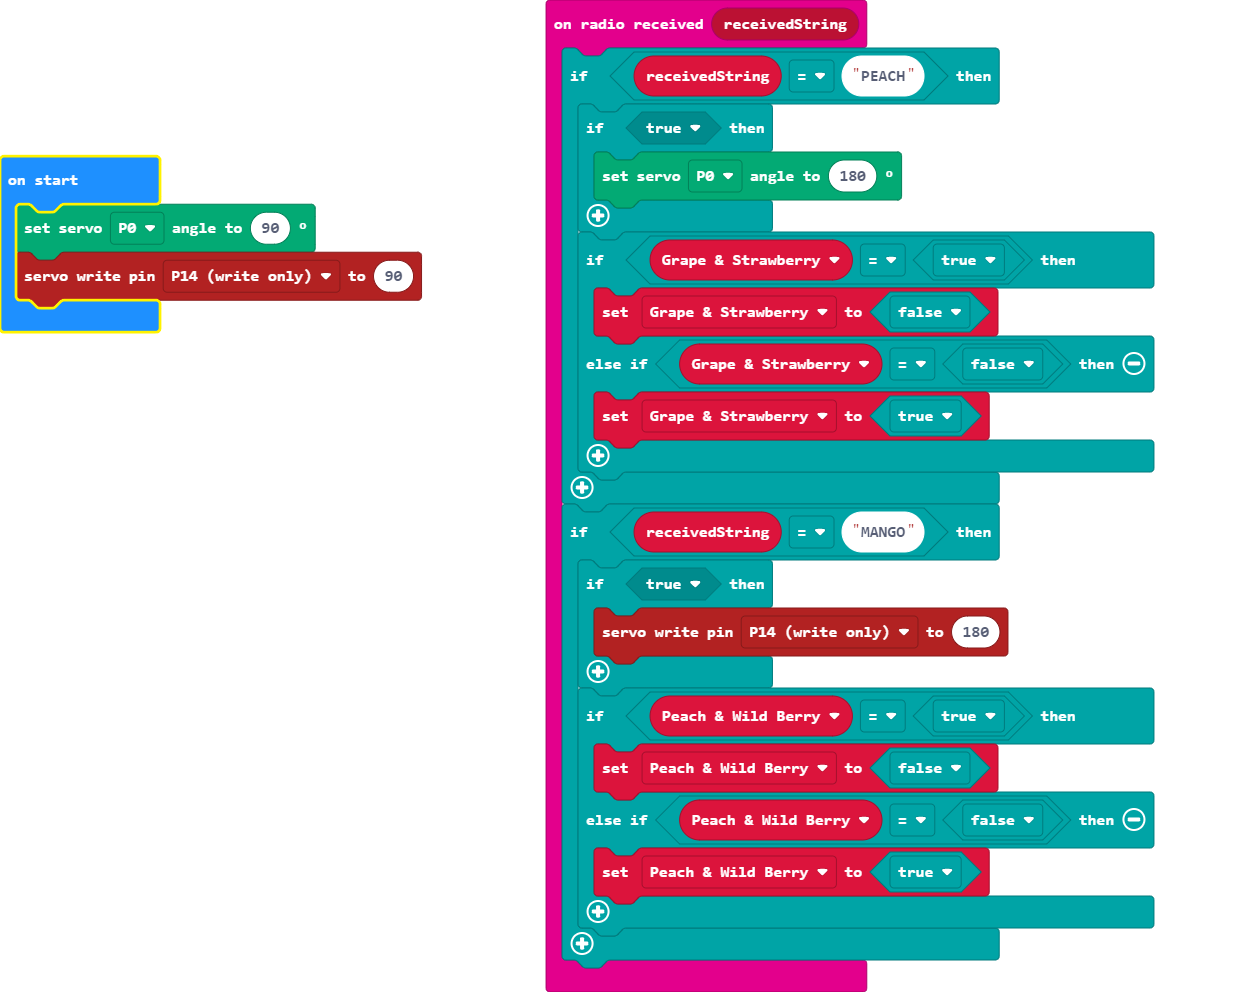
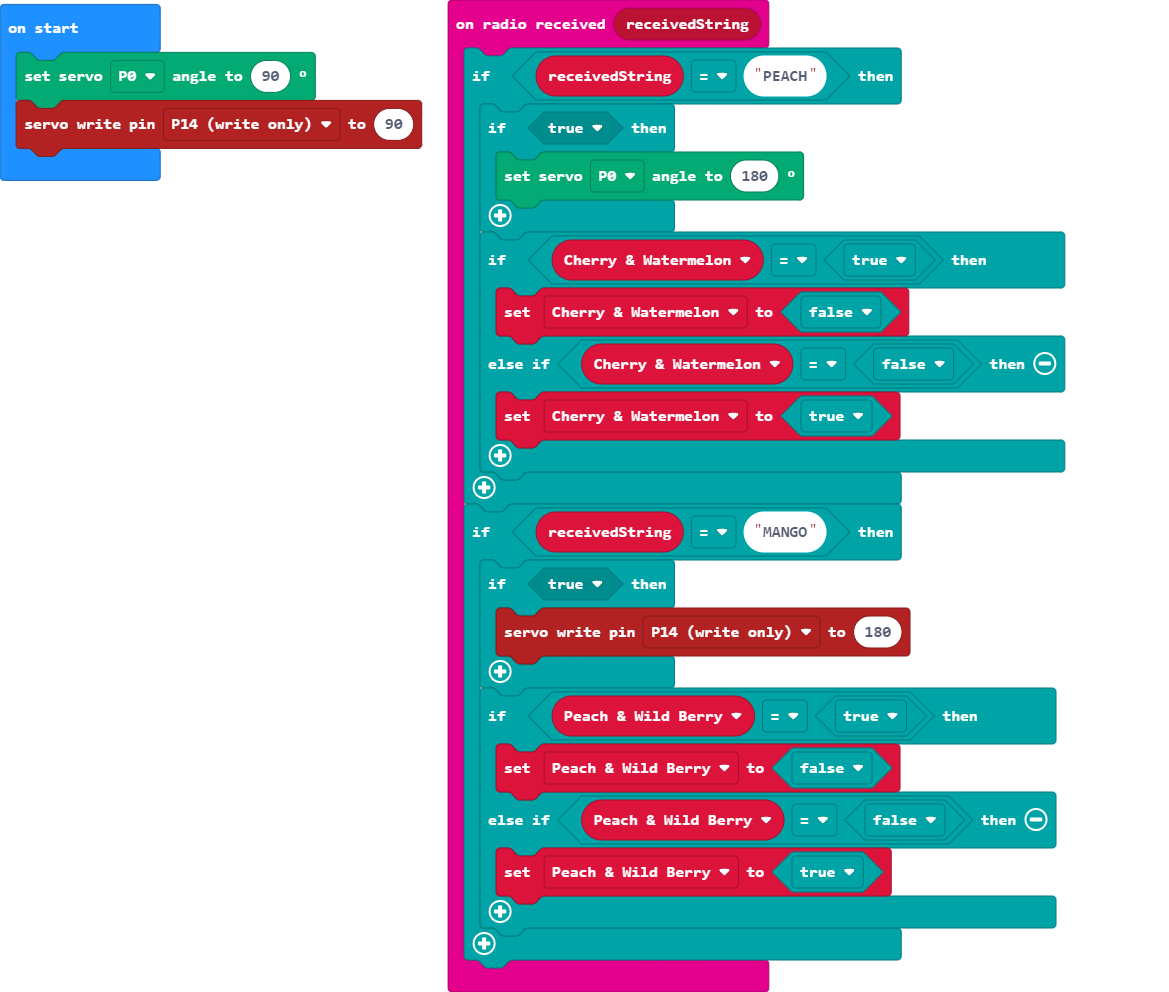
Update main.blocks, main.ts

diff --git a/main.ts b/main.ts
@@ -3,10 +3,10 @@ radio.onReceivedString(function (receivedString) {
         if (true) {
             servos.P0.setAngle(180)
         }
-        if (Grape__Strawberry == true) {
-            Grape__Strawberry = false
-        } else if (Grape__Strawberry == false) {
-            Grape__Strawberry = true
+        if (Cherry__Watermelon == true) {
+            Cherry__Watermelon = false
+        } else if (Cherry__Watermelon == false) {
+            Cherry__Watermelon = true
         }
     }
     if (receivedString == "MANGO") {
@@ -21,6 +21,6 @@ radio.onReceivedString(function (receivedString) {
     }
 })
 let Peach__Wild_Berry = false
-let Grape__Strawberry = false
+let Cherry__Watermelon = false
 servos.P0.setAngle(90)
 pins.servoWritePin(AnalogPin.P14, 90)
